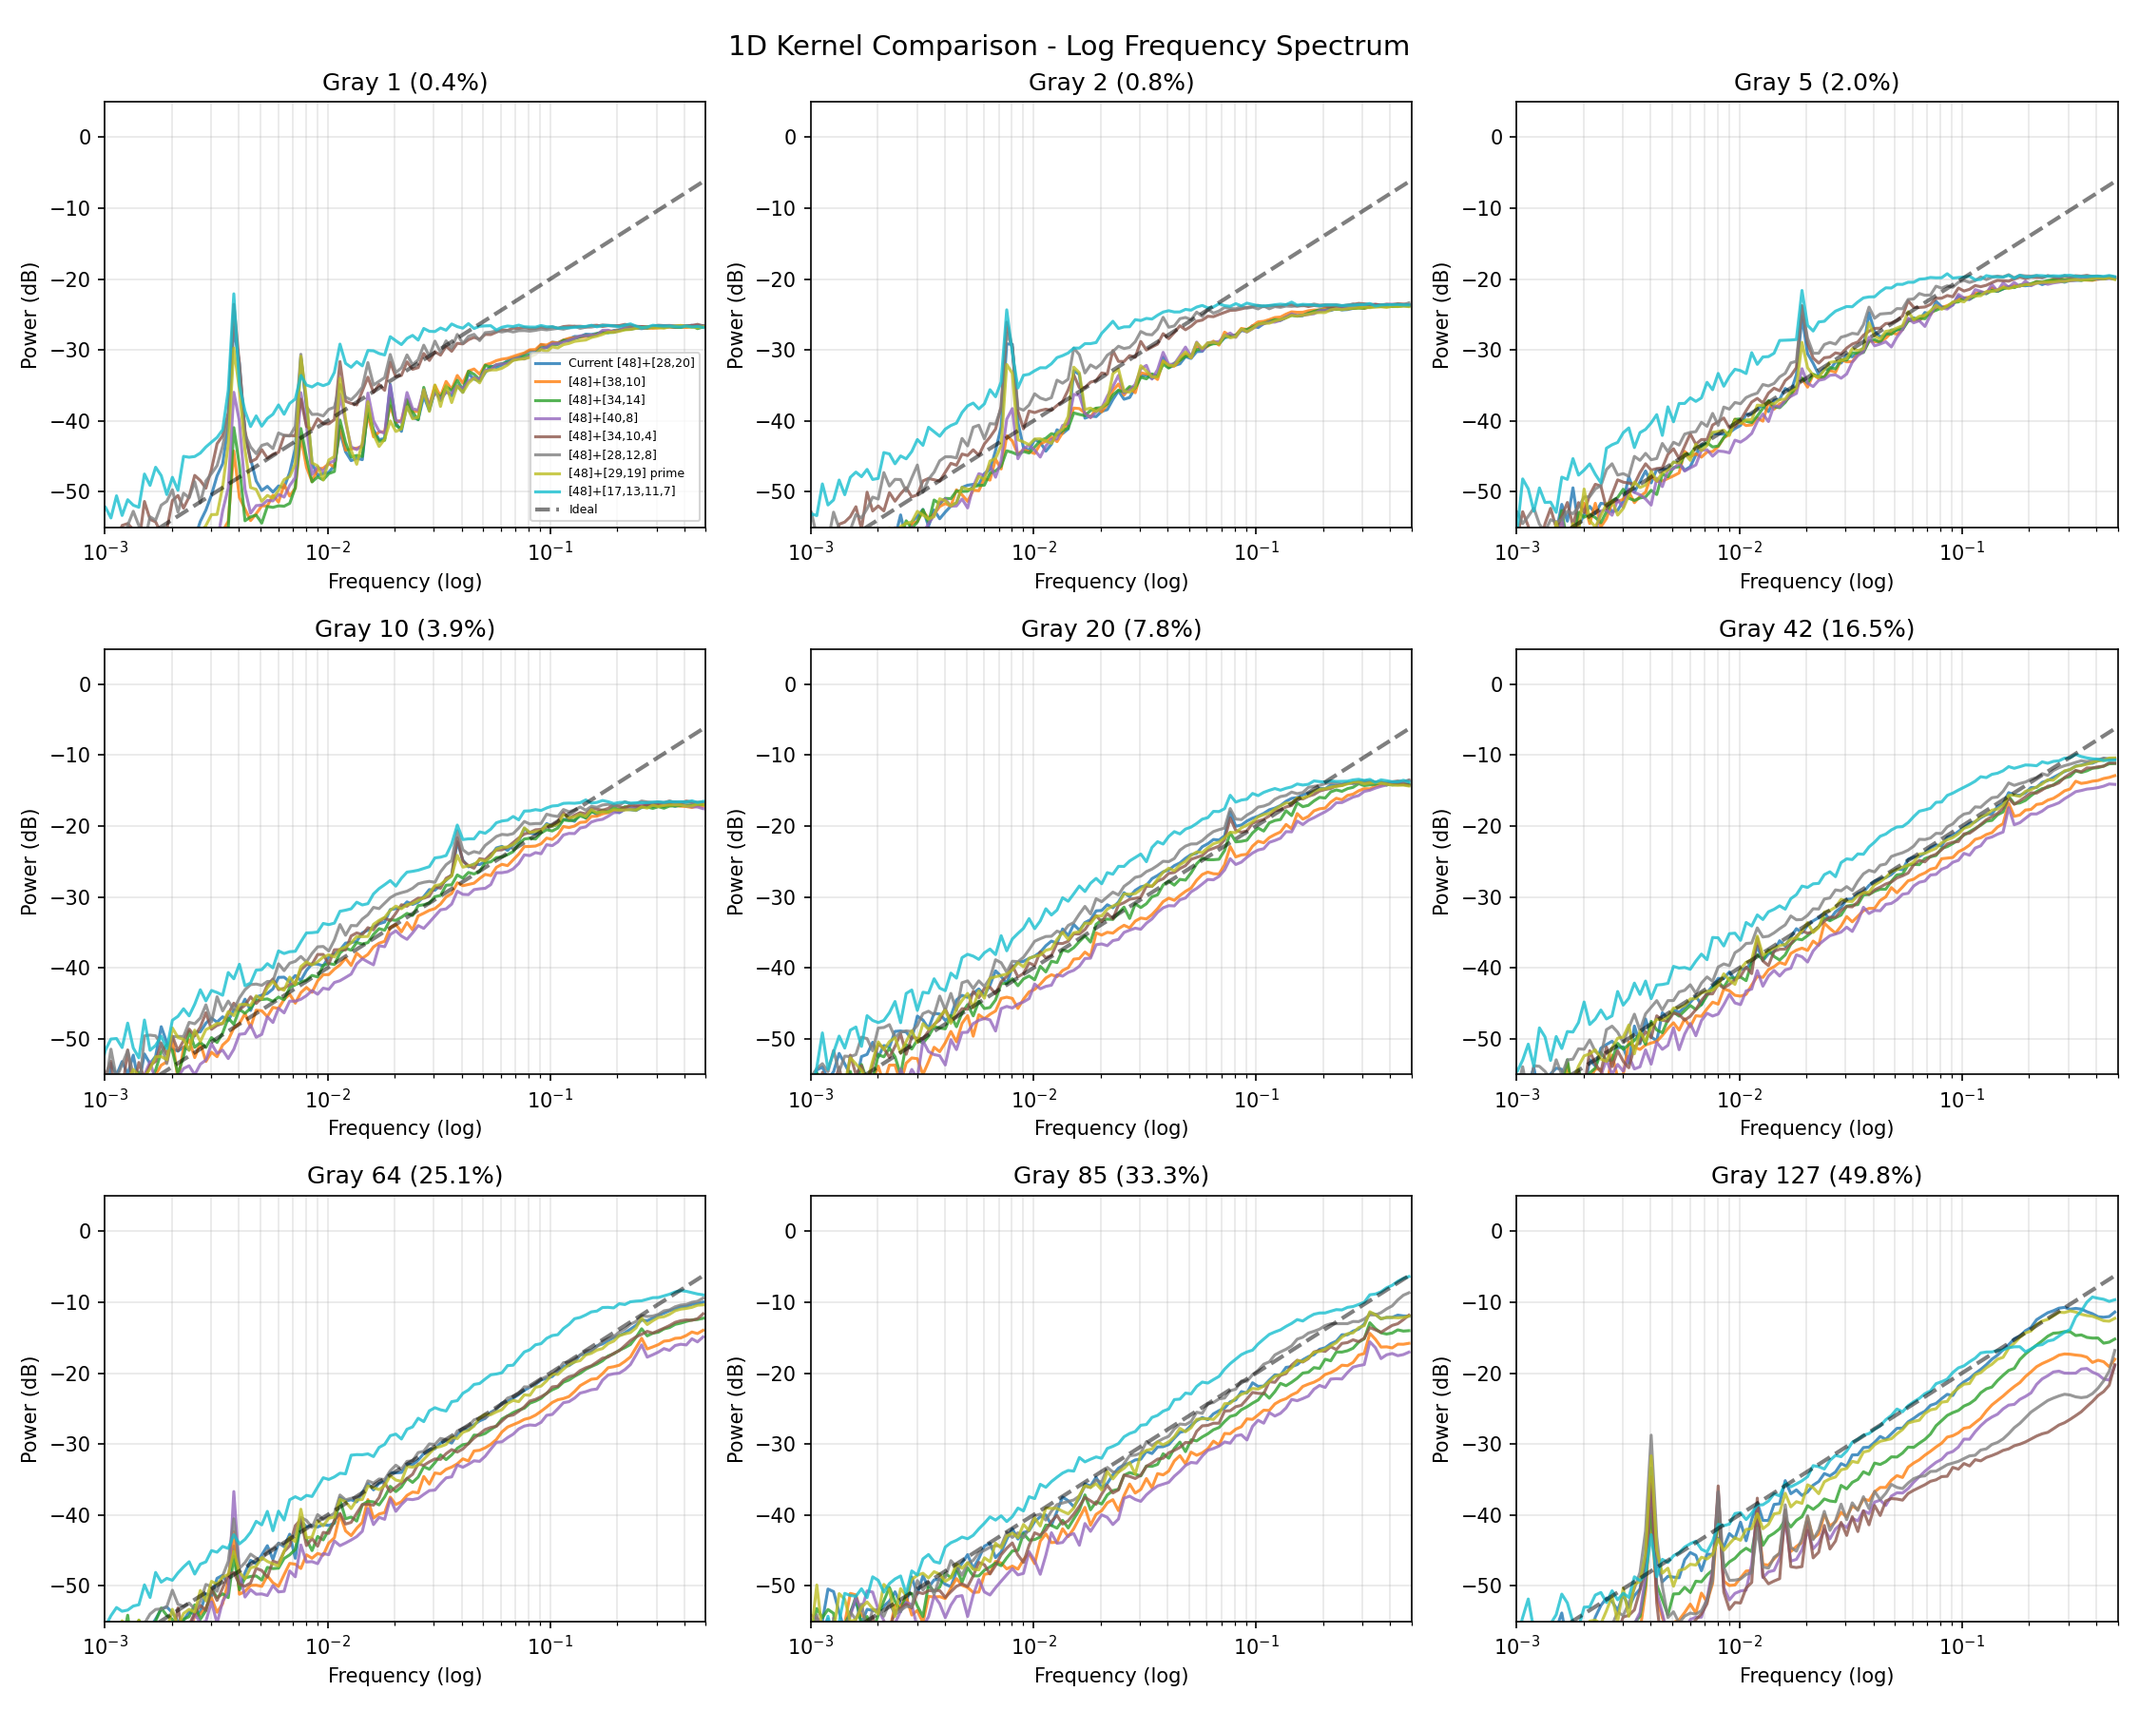
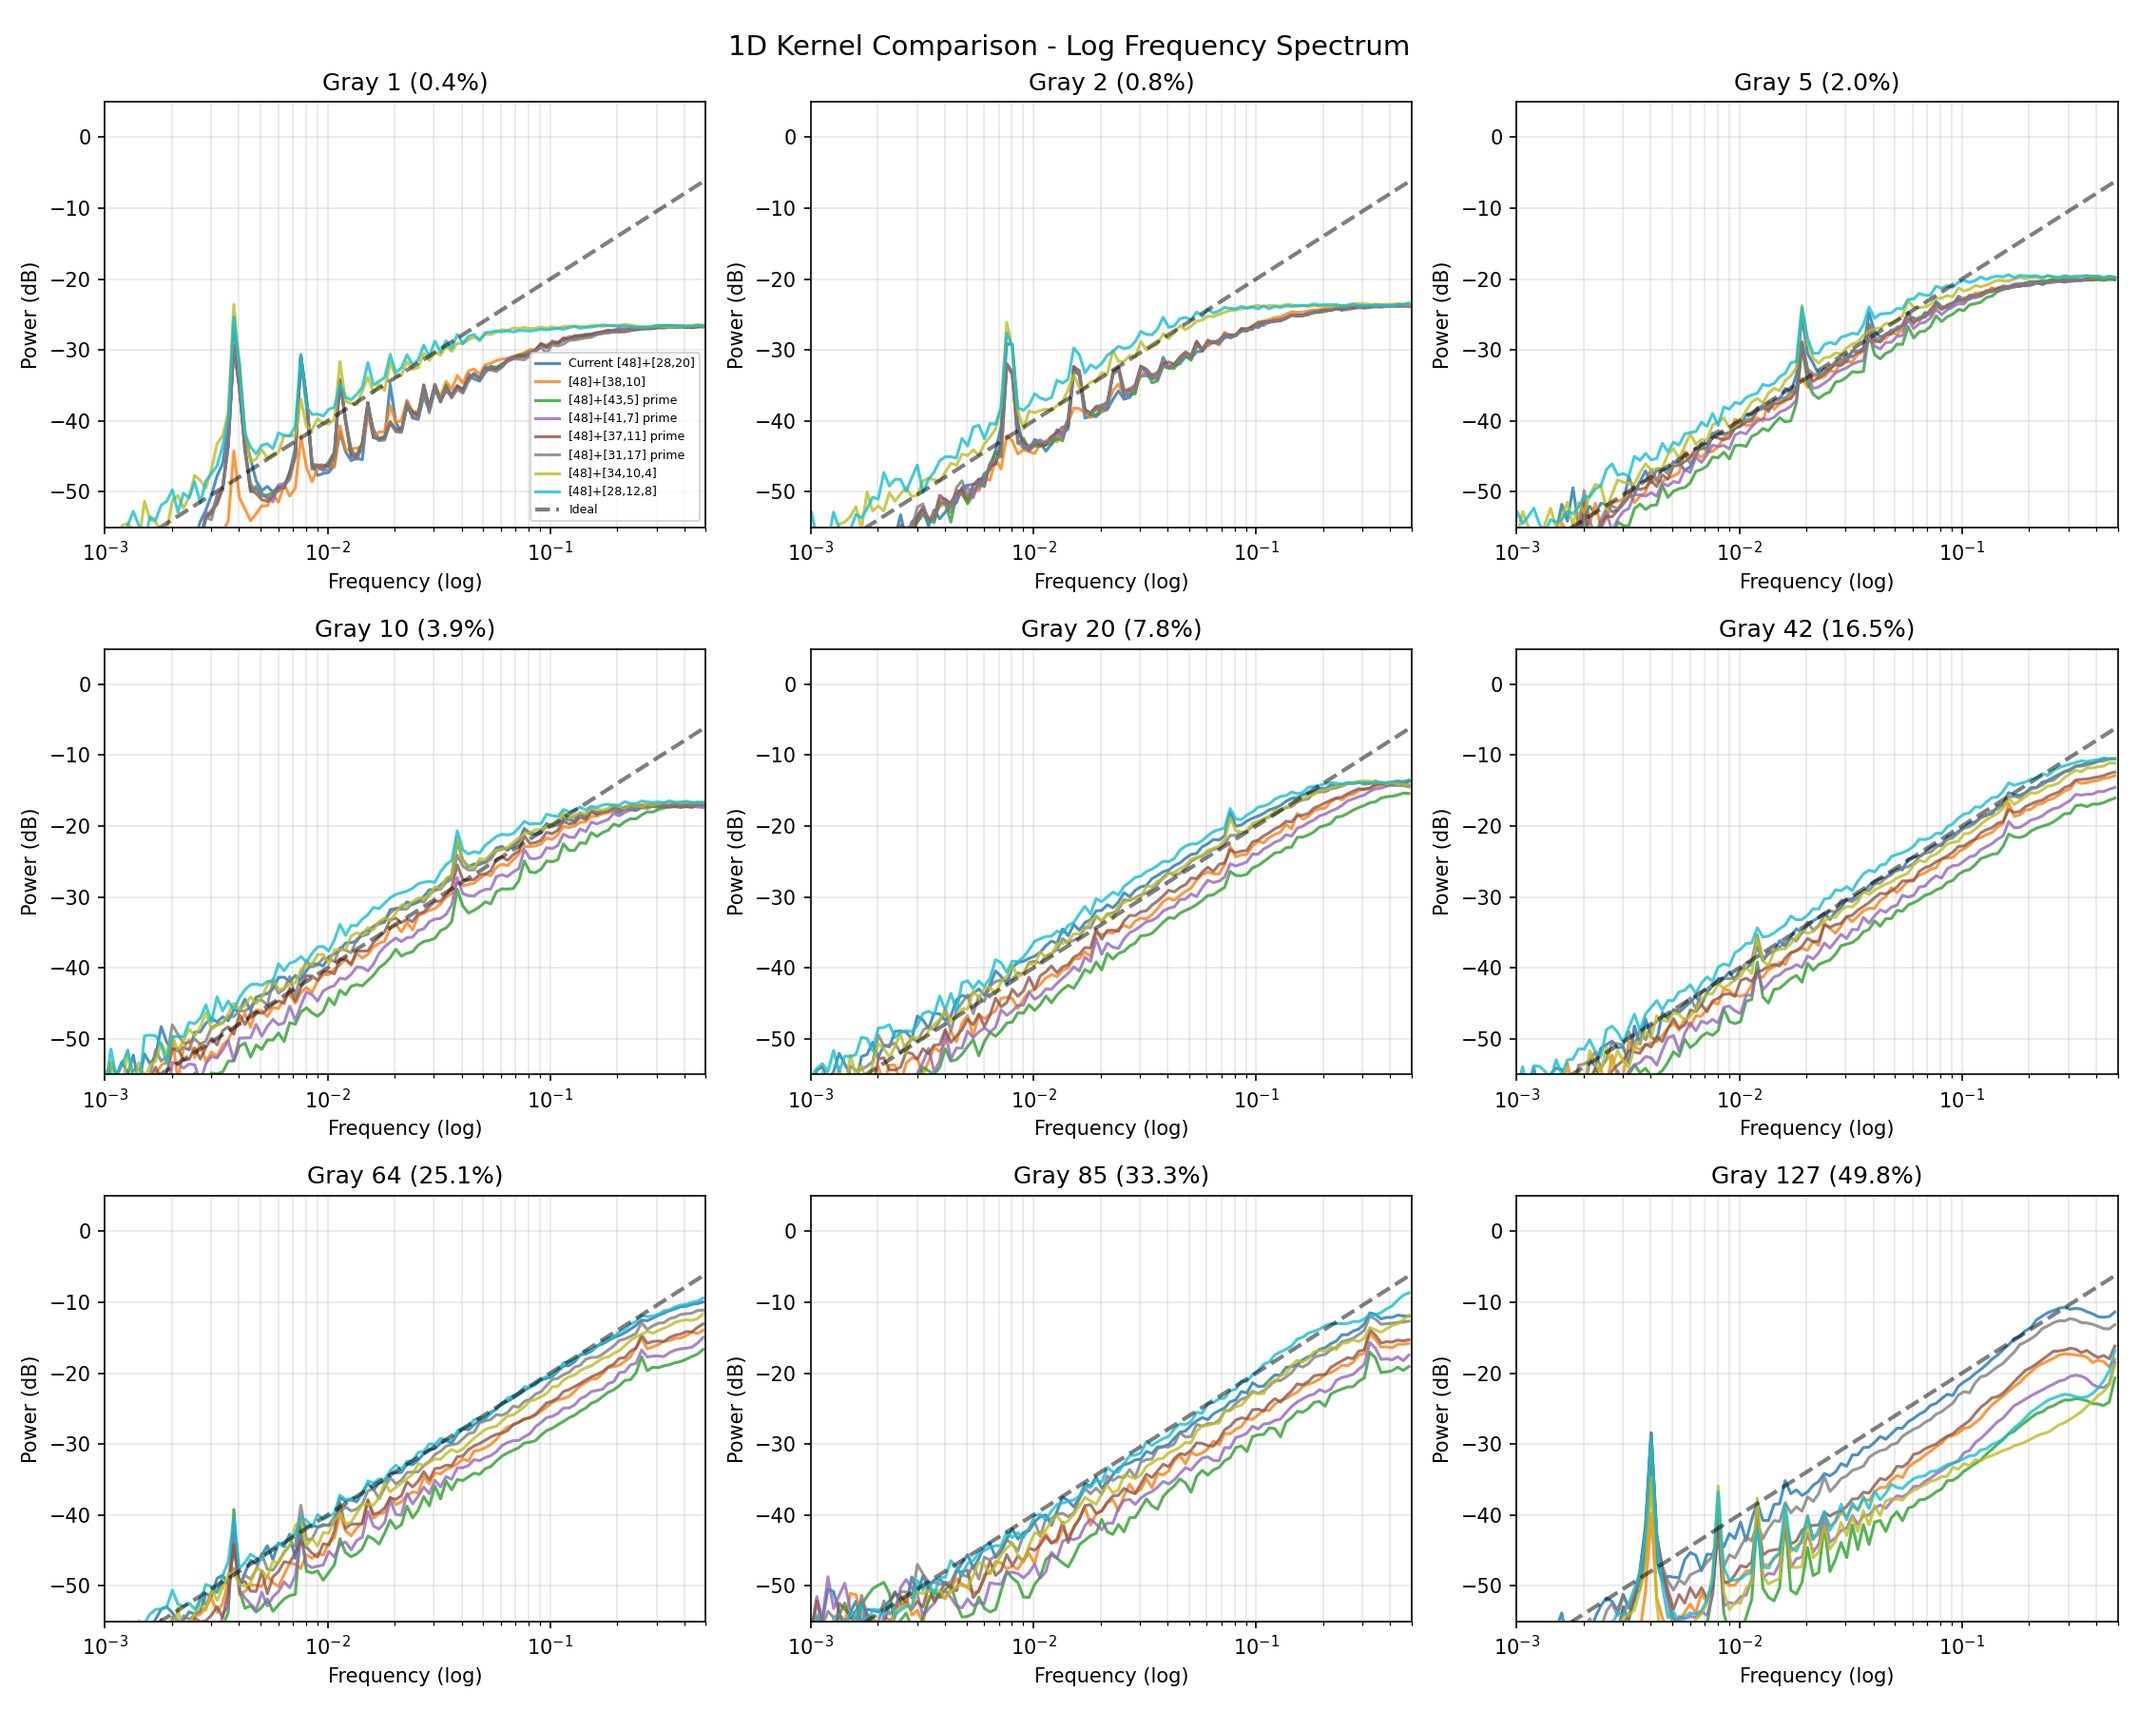
Compare 1D kernels

diff --git a/tools/experiments/analyze_1d_prime_pairs.py b/tools/experiments/analyze_1d_prime_pairs.py
@@ -1,0 +1,173 @@
+#!/usr/bin/env python3
+"""
+Analyze prime pair kernels for 1D temporal dithering.
+
+Tests all prime pairs [p, q] where p + q = 48.
+"""
+
+import numpy as np
+import matplotlib.pyplot as plt
+from pathlib import Path
+
+def lowbias32(x):
+    x = np.uint32(x)
+    x ^= x >> 16
+    x = np.uint32(x * np.uint32(0x21f0aaad))
+    x ^= x >> 15
+    x = np.uint32(x * np.uint32(0x735a2d97))
+    x ^= x >> 15
+    return x
+
+def blue_dither_1d_kernel(brightness, count, kernels, seed=12345):
+    n_kernels = len(kernels)
+    max_len = max(len(k) for k in kernels)
+    err = [0] * (max_len + 1)
+    output = np.zeros(count, dtype=np.uint8)
+    threshold, white_val = 6120, 255 * 48
+
+    for i in range(count):
+        pixel = brightness * 48 + err[0]
+        if pixel >= threshold:
+            output[i] = 1
+            quant_err = pixel - white_val
+        else:
+            output[i] = 0
+            quant_err = pixel
+
+        h = lowbias32(np.uint32(i) ^ np.uint32(seed))
+        kernel = kernels[h % n_kernels]
+        err = err[1:] + [0]
+        for j, coeff in enumerate(kernel):
+            err[j] += (quant_err * coeff) // 48
+    return output
+
+def compute_spectrum(signal):
+    signal = signal.astype(np.float64) - np.mean(signal)
+    fft = np.fft.rfft(signal)
+    power = np.abs(fft) ** 2 / len(signal)
+    freqs = np.fft.rfftfreq(len(signal))
+    return freqs, 10 * np.log10(power + 1e-20)
+
+def smooth_spectrum_log(freqs, power_db, bins_per_octave=12):
+    f_min = freqs[freqs > 0].min()
+    f_max = freqs.max()
+    n_bins = int(np.log2(f_max / f_min) * bins_per_octave)
+    bin_edges = np.logspace(np.log10(f_min), np.log10(f_max), n_bins + 1)
+    bin_centers, bin_means = [], []
+    for i in range(len(bin_edges) - 1):
+        mask = (freqs >= bin_edges[i]) & (freqs < bin_edges[i+1])
+        if np.any(mask):
+            bin_centers.append(np.sqrt(bin_edges[i] * bin_edges[i+1]))
+            bin_means.append(np.mean(power_db[mask]))
+    return np.array(bin_centers), np.array(bin_means)
+
+def measure_slope(freqs, power_db):
+    f_smooth, p_smooth = smooth_spectrum_log(freqs, power_db)
+    mask_low = (f_smooth >= 0.01) & (f_smooth < 0.02)
+    mask_high = (f_smooth >= 0.1) & (f_smooth < 0.2)
+    if np.any(mask_low) and np.any(mask_high):
+        p_low, p_high = np.mean(p_smooth[mask_low]), np.mean(p_smooth[mask_high])
+        return (p_high - p_low) / np.log10(0.1 / 0.01) / 3.32
+    return None
+
+def is_prime(n):
+    if n < 2:
+        return False
+    for i in range(2, int(n**0.5) + 1):
+        if n % i == 0:
+            return False
+    return True
+
+def main():
+    output_dir = Path(__file__).parent.parent / 'test_images' / 'analysis'
+    output_dir.mkdir(parents=True, exist_ok=True)
+
+    # All prime pairs that sum to 48
+    kernel_sets = {
+        '[48]+[43,5]':  [[48], [43, 5]],   # ratio 8.6:1, both prime
+        '[48]+[41,7]':  [[48], [41, 7]],   # ratio 5.9:1, both prime
+        '[48]+[37,11]': [[48], [37, 11]],  # ratio 3.4:1, both prime
+        '[48]+[31,17]': [[48], [31, 17]],  # ratio 1.8:1, both prime
+        '[48]+[29,19]': [[48], [29, 19]],  # ratio 1.5:1, both prime
+        # Non-prime comparisons
+        '[48]+[38,10]': [[48], [38, 10]],  # ratio 3.8:1 (previous best)
+        '[48]+[28,20]': [[48], [28, 20]],  # ratio 1.4:1 (current)
+    }
+
+    count = 131072
+    gray_levels = [1, 2, 5, 10, 20, 42, 64, 85, 127]
+
+    print("Prime Pair Kernels - All sum to 48")
+    print("=" * 105)
+    print(f"{'Kernel':<18} {'Ratio':<7} {'Prime':<6}", end="")
+    for g in gray_levels:
+        print(f" G{g:>3}", end="")
+    print("    Avg")
+    print("-" * 105)
+
+    results = []
+    for name, kernels in kernel_sets.items():
+        k = kernels[1]
+        ratio = k[0] / k[1]
+        both_prime = is_prime(k[0]) and is_prime(k[1])
+
+        slopes = []
+        for gray in gray_levels:
+            sig = blue_dither_1d_kernel(gray, count, kernels)
+            freqs, power = compute_spectrum(sig)
+            slope = measure_slope(freqs, power)
+            slopes.append(slope if slope else 0)
+
+        avg = np.mean(slopes)
+        results.append((name, ratio, both_prime, slopes, avg))
+
+        prime_str = "✓" if both_prime else ""
+        print(f"{name:<18} {ratio:<7.1f} {prime_str:<6}", end="")
+        for s in slopes:
+            print(f" {s:>+4.1f}", end="")
+        print(f"  {avg:>+5.2f}")
+
+    print("-" * 105)
+    print(f"{'Ideal':<18} {'':<7} {'':<6}", end="")
+    for _ in gray_levels:
+        print(f" +6.0", end="")
+    print(f"  +6.00")
+
+    # Sort by average and show ranking
+    print("\n\nRanking by average slope:")
+    results.sort(key=lambda x: -x[4])
+    for i, (name, ratio, both_prime, slopes, avg) in enumerate(results, 1):
+        prime_str = "both prime" if both_prime else ""
+        print(f"  {i}. {name:<18} ratio {ratio:>4.1f}:1  avg {avg:>+.2f}  {prime_str}")
+
+    # Generate chart
+    fig, ax = plt.subplots(figsize=(10, 6))
+
+    ratios = [r[1] for r in results]
+    avgs = [r[4] for r in results]
+    names = [r[0] for r in results]
+    primes = [r[2] for r in results]
+
+    colors = ['green' if p else 'blue' for p in primes]
+    ax.scatter(ratios, avgs, c=colors, s=100, zorder=5)
+
+    for i, name in enumerate(names):
+        ax.annotate(name.split('+')[1], (ratios[i], avgs[i]),
+                    textcoords="offset points", xytext=(5, 5), fontsize=8)
+
+    ax.axhline(y=6.0, color='k', linestyle='--', alpha=0.5, label='Ideal (+6 dB/oct)')
+    ax.set_xlabel('Kernel Ratio (first/second coefficient)')
+    ax.set_ylabel('Average Spectral Slope (dB/octave)')
+    ax.set_title('1D Kernel Performance vs Ratio')
+    ax.grid(True, alpha=0.3)
+    ax.legend()
+
+    plt.tight_layout()
+    output_path = output_dir / 'spectrum_1d_prime_pairs.png'
+    plt.savefig(output_path, dpi=150)
+    print(f"\nSaved: {output_path}")
+    plt.close()
+
+
+if __name__ == '__main__':
+    main()

diff --git a/tools/analyze_1d_kernels.py b/tools/analyze_1d_kernels.py
@@ -121,20 +121,31 @@ KERNEL_SETS = {
         [28, 20],       # 7:5 ratio to t+1,t+2 (JJN-like)
     ],
 
-    # Ratio experiments - varying the t+1:t+2 split
+    # Best performer
     '[48]+[38,10]': [
         [48],
-        [38, 10],       # ~4:1 ratio - BEST performer
+        [38, 10],       # ratio 3.8:1 - BEST overall
     ],
 
-    '[48]+[34,14]': [
+    # Prime pairs (both coefficients are prime, sum to 48)
+    '[48]+[43,5] prime': [
         [48],
-        [34, 14],       # ~2.4:1 ratio
+        [43, 5],        # ratio 8.6:1, both prime - BEST prime pair
     ],
 
-    '[48]+[40,8]': [
+    '[48]+[41,7] prime': [
         [48],
-        [40, 8],        # 5:1 ratio
+        [41, 7],        # ratio 5.9:1, both prime
+    ],
+
+    '[48]+[37,11] prime': [
+        [48],
+        [37, 11],       # ratio 3.4:1, both prime
+    ],
+
+    '[48]+[31,17] prime': [
+        [48],
+        [31, 17],       # ratio 1.8:1, both prime
     ],
 
     # Length-3 experiments (both hurt low gray)
@@ -146,18 +157,6 @@ KERNEL_SETS = {
     '[48]+[28,12,8]': [
         [48],
         [28, 12, 8],    # Length-3, more balanced - even worse
-    ],
-
-    # Prime coefficient variants
-    '[48]+[29,19] prime': [
-        [48],
-        [29, 19],       # Both prime
-    ],
-
-    # All-prime length-4 (elegant but worse at low gray)
-    '[48]+[17,13,11,7]': [
-        [48],
-        [17, 13, 11, 7],  # All prime, sum=48
     ],
 }
 
